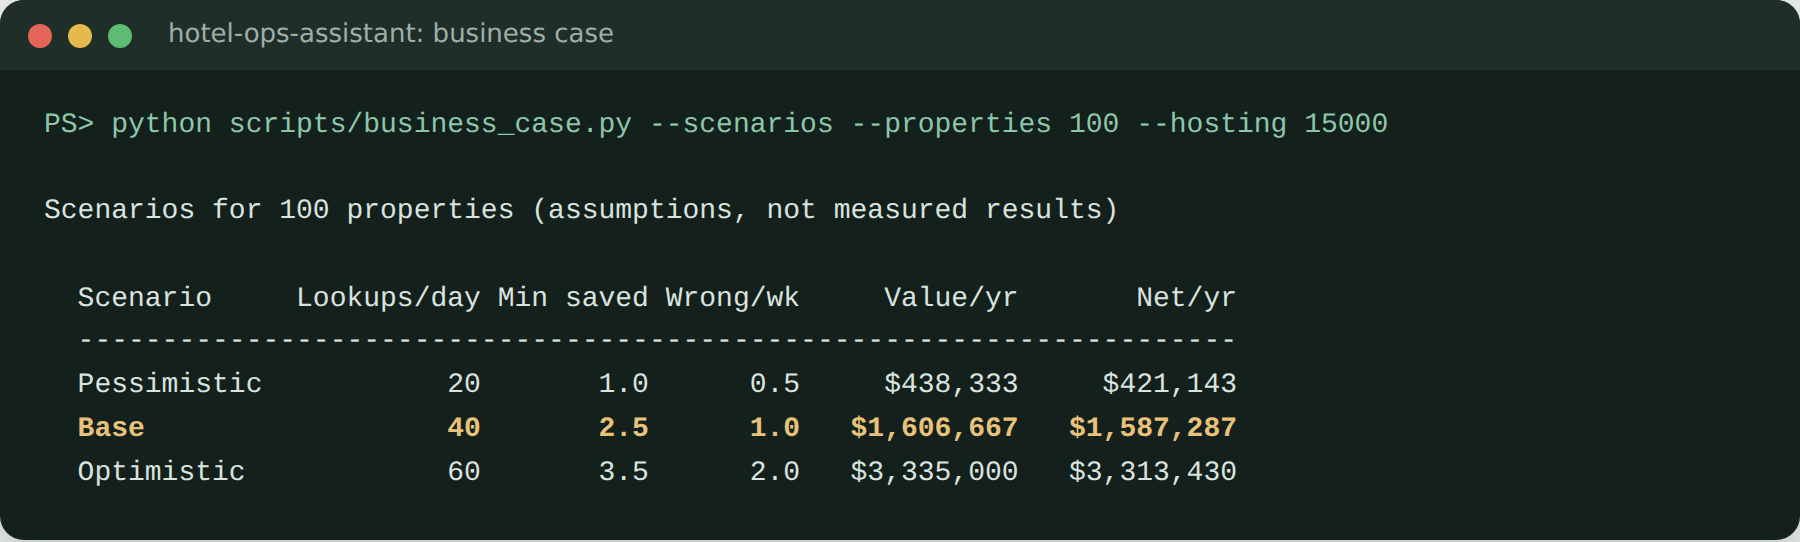
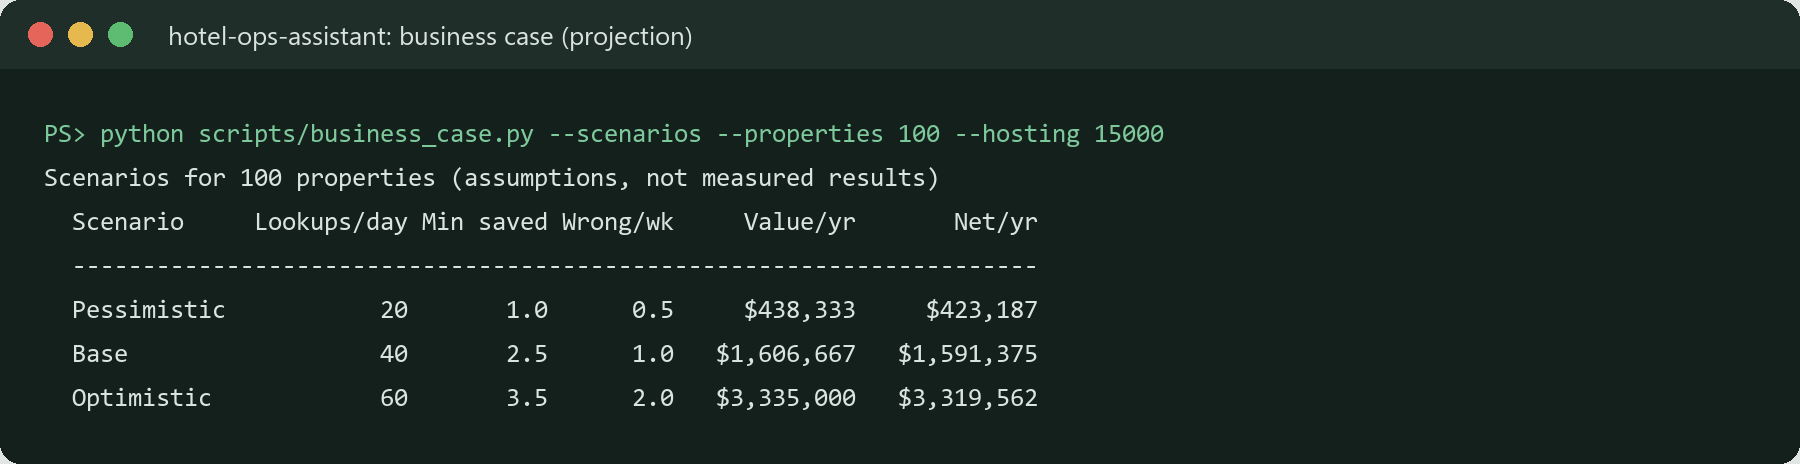
docs: real screenshots, eval, test and business case images

diff --git a/docs/images/README.md b/docs/images/README.md
@@ -1,28 +1,35 @@
 # Screenshots
 
-## Already included (real outputs, generated from this repo)
-| File | Shows | Used in |
+Every image here is real output from this repo. Regenerate them after changes so they always match the code.
+
+## Terminal output (rendered from real command output)
+| File | Shows | How to regenerate |
 |---|---|---|
-| `tests.png` | `pytest -v --cov`: 31 passed, 92% coverage | README → Testing |
-| `eval-retrieval.png` | 37-question eval, 32/34 strict retrieval | README → Results |
-| `business-case.png` | Calculator scenarios, 100 properties | README → Business value |
+| `eval-retrieval.png` | 54-question eval, hybrid: retrieval, scope and escalation checks | `python -m eval.run_eval > out.txt`, then `python scripts/render_terminal.py out.txt docs/images/eval-retrieval.png --command "python -m eval.run_eval" --title "hotel-ops-assistant: retrieval, scope and escalation eval (hybrid)"` |
+| `tests.png` | `pytest` with coverage: 148 passed, 96% | `python -m pytest -q --cov=src --cov=eval > out.txt`, then render as above |
+| `business-case.png` | Calculator scenarios, 100 properties (projection) | `python scripts/business_case.py --scenarios --properties 100 --hosting 15000 > out.txt`, then render |
 
-Regenerate them after changes so they always match the code.
+## App screenshots (captured from the running app with real questions)
+Start the app (`streamlit run app.py`), then run `python scripts/capture_screenshots.py`. It asks about 9 real
+questions (about $0.002) and never captures the Admin page.
 
-## Capture these yourself (they need your API key)
-Run `streamlit run app.py`, make the browser window about 1200px wide, and capture with **Win + Shift + S**.
+| File | Shows |
+|---|---|
+| `demo.gif` | A question typed and the answer streaming in (about 10 s, under 1 MB) |
+| `assistant-welcome.png` | Empty conversation: welcome, what it can and can't do, sample questions |
+| `answer-sources.png` | Gold member late checkout at Beach Resort, with sources expanded |
+| `two-properties.png` | The dog question at both properties, side by side |
+| `check-with-manager.png` | A $300 refund question with the manager note quoting the rule |
+| `refusal.png` | Fire assembly point: refused, with the safety note |
+| `insights.png`, `library.png`, `how-it-works.png` | The manager and engineer pages |
+| `assistant-light.png`, `assistant-dark.png` | The Assistant in light and dark mode |
+| `phone.png` | The Assistant at phone width (390 px) |
 
-| File | Property | Question | Before capturing |
-|---|---|---|---|
-| `answer.png` | beach-resort | A Gold member wants late checkout on Saturday. How late? | Open "Sources used" |
-| `two-properties.png` | both | Can a guest bring their dog? | Capture both answers, place side by side |
-| `refusal.png` | beach-resort | Where is the fire assembly point? | Shows the yellow refusal |
-| `demo.gif` | beach-resort | Any 2 questions | Record 10–15 seconds with ScreenToGif, under 5 MB |
-| `ci.png` | n/a | GitHub → Actions tab | After your first push shows a green check |
-
-Then open the main README and remove the `<!--` and `-->` markers around the hero GIF and the app screenshot table.
+Clear `data/usage.jsonl` and `data/feedback.jsonl` before capturing, so Insights shows only the capture session.
+For a design review of every page in both modes and both widths: `python scripts/capture_review.py --phone`.
 
 ## Checklist before committing an image
-- No API key, `.env`, or personal browser tabs visible
+- No API key, `.env`, admin page or personal browser tabs visible
+- Only real answers and real usage; no made-up data
 - Text is readable without zooming
-- File under 1 MB for PNG, under 5 MB for GIF
+- PNG under 1 MB where possible, GIF under 5 MB
